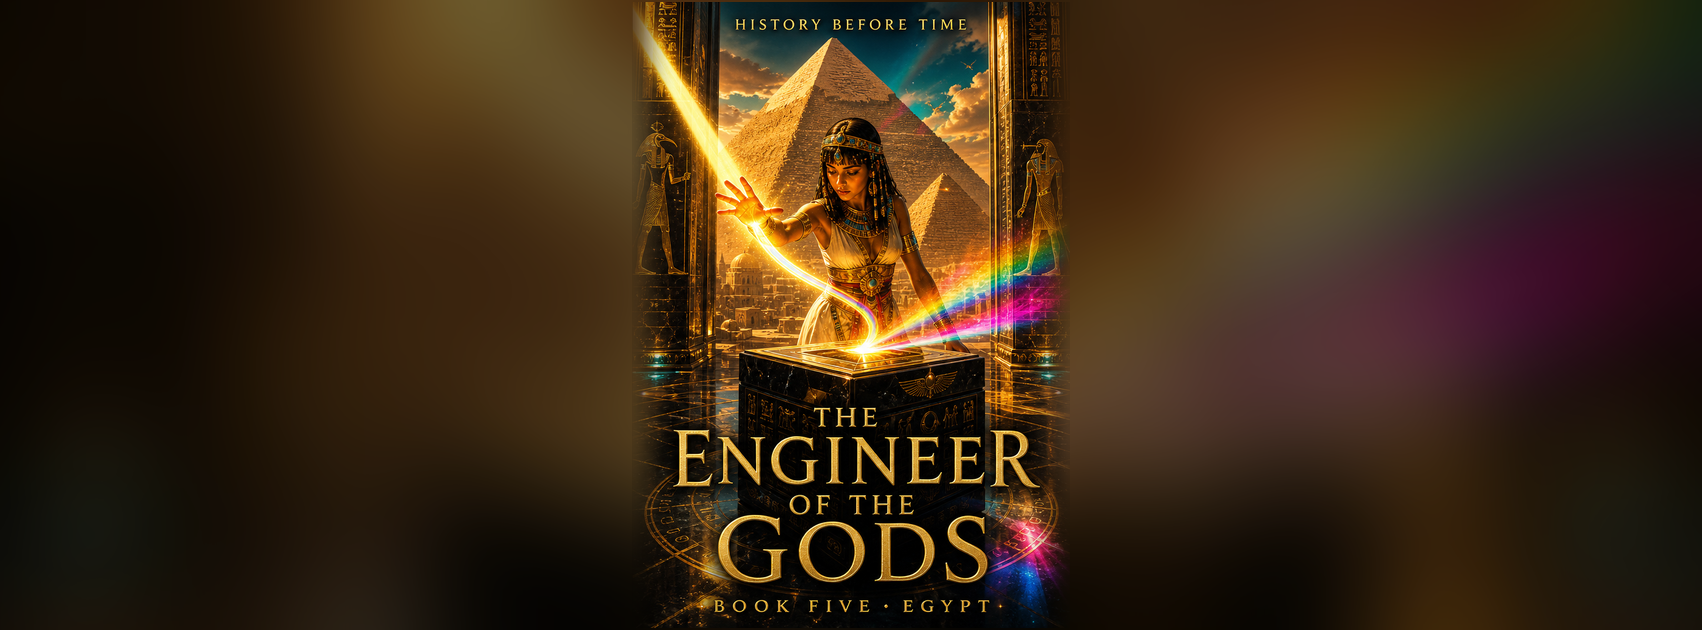
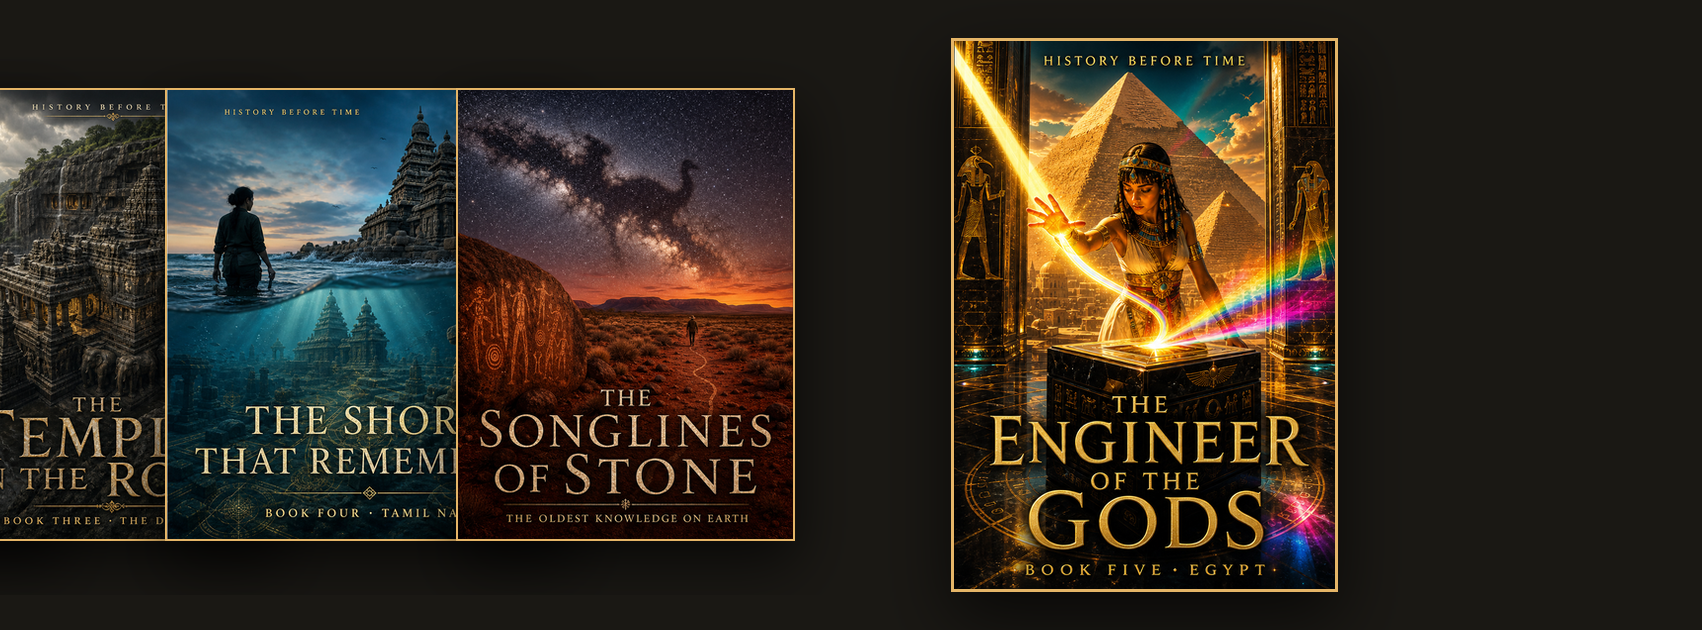
brand: Facebook cover — HBT collage with Engineer of the Gods as hero
The 7 full History Before Time novels as a collage: the five supporting covers
(Calendar of Stone, Temple in the Rock ×2, Shore That Remembers, Songlines of
Stone) fanned on the left; Engineer of the Gods rendered larger and centre-right
as the hero. Warm near-black ground, gold keylines. 851x315 + 2x master.

diff --git a/brand/facebook/build_cover.py b/brand/facebook/build_cover.py
@@ -1,17 +1,15 @@
 #!/usr/bin/env python3
-"""Facebook cover: the Engineer of the Gods cover, full-frame and epic. Just the cover.
+"""Facebook cover: collage of the 7 History Before Time covers with Engineer of the Gods full-frame.
 
-A Facebook cover is a wide landscape (851x315) and the book cover is a tall portrait, so we can't
-simply crop a thin slice without losing the art. Instead we fill the banner with the cover's OWN
-image: the cover is scaled to the full banner height and centred, and its background is extended to
-the wide sides by a mirrored, blurred, darkened bleed — so the whole thing reads as one cinematic
-full-frame image with the real cover intact and dominant in the mobile-safe centre.
+The seven full HBT novels (Calendar of Stone, Temple in the Rock ×2, Shore That Remembers,
+Engineer of the Gods, Songlines of Stone) fanned across the right side of the banner, with
+Engineer of the Gods rendered at a larger scale as the hero. Warm near-black house ground.
 
 Writes the exact 851x315 cover plus a 2x master.
 """
 from pathlib import Path
 
-from PIL import Image, ImageEnhance, ImageFilter
+from PIL import Image, ImageDraw, ImageFilter
 
 HERE = Path(__file__).resolve().parent
 BRAND = HERE.parent
@@ -19,58 +17,84 @@ BOOKS = BRAND.parent / "books" / "history-before-time" / "books"
 
 W, H = 851, 315
 SCALE = 2
+BG = (22, 21, 19)
 
-# The hero cover — Engineer of the Gods (the most striking cover).
-COVER = BOOKS / "book5-egypt" / "design" / "cover.png"
+# The six non-hero covers: Calendar of Stone, Temple in the Rock (India ×2), Shore That Remembers,
+# Songlines of Stone. Ordered left to right in the fan (smallest to largest).
+COVERS = [
+    "book1-africa",           # Calendar of Stone
+    "book2-india",            # Temple in the Rock
+    "book3-india-deccan",     # Temple in the Rock (Deccan)
+    "book4-india-tamil",      # Shore That Remembers
+    "australia-outback",      # Songlines of Stone
+]
+
+# The hero: Engineer of the Gods (book5-egypt), rendered larger/fuller
+HERO = BOOKS / "book5-egypt" / "design" / "cover.png"
 
 out = HERE / "facebook-cover.png"
 out_2x = HERE / "facebook-cover@2x.png"
 
 
+def _cover_shadowed(path: Path, target_h: int) -> Image.Image:
+    """Load a cover, scale to target height, add a soft drop shadow + thin gold edge."""
+    img = Image.open(path).convert("RGB")
+    cw, ch = img.size
+    scale = target_h / ch
+    img = img.resize((int(cw * scale), target_h), Image.LANCZOS)
+    cw, ch = img.size
+    # Thin gold keyline.
+    GOLD = (229, 181, 103)
+    edge = Image.new("RGB", (cw, ch), GOLD)
+    border = max(2, int(target_h * 0.006))
+    inner = img.crop((0, 0, cw, ch)).resize((cw - 2 * border, ch - 2 * border), Image.LANCZOS)
+    edge.paste(inner, (border, border))
+    img = edge
+    # Compose onto a transparent tile with a drop shadow.
+    pad = int(target_h * 0.12)
+    tile = Image.new("RGBA", (cw + pad * 2, ch + pad * 2), (0, 0, 0, 0))
+    shadow = Image.new("RGBA", tile.size, (0, 0, 0, 0))
+    sd = ImageDraw.Draw(shadow)
+    sd.rectangle([pad, pad + int(pad * 0.4), pad + cw, pad + ch + int(pad * 0.4)],
+                 fill=(0, 0, 0, 170))
+    shadow = shadow.filter(ImageFilter.GaussianBlur(pad * 0.5))
+    tile.alpha_composite(shadow)
+    tile.alpha_composite(Image.merge("RGBA", (*img.split(), Image.new("L", img.size, 255))), (pad, pad))
+    return tile
+
+
 def main():
     sw, sh = W * SCALE, H * SCALE
-    cover = Image.open(COVER).convert("RGB")
+    canvas = Image.new("RGB", (sw, sh), BG)
 
-    # 1) Background bleed: scale the cover to COVER the whole wide banner (crop overflow), then blur
-    #    + darken it so it fills the sides without competing with the sharp cover on top.
-    cw, ch = cover.size
-    cover_ar = cw / ch
-    banner_ar = sw / sh
-    if cover_ar < banner_ar:                 # cover narrower than banner → match width, crop height
-        bw = sw
-        bh = int(sw / cover_ar)
-    else:
-        bh = sh
-        bw = int(sh * cover_ar)
-    bg = cover.resize((bw, bh), Image.LANCZOS)
-    bg = bg.crop(((bw - sw) // 2, (bh - sh) // 2, (bw - sw) // 2 + sw, (bh - sh) // 2 + sh))
-    bg = bg.filter(ImageFilter.GaussianBlur(sw * 0.03))
-    bg = ImageEnhance.Brightness(bg).enhance(0.45)
-    bg = ImageEnhance.Color(bg).enhance(0.9)
+    # Subtle vignette (warm center, darker edges).
+    vig = Image.new("L", (sw, sh), 0)
+    vd = ImageDraw.Draw(vig)
+    vd.ellipse([-sw * 0.2, -sh * 0.6, sw * 1.2, sh * 1.6], fill=60)
+    vig = vig.filter(ImageFilter.GaussianBlur(sw * 0.12))
+    warm = Image.new("RGB", (sw, sh), (38, 33, 24))
+    canvas = Image.composite(warm, canvas, vig)
 
-    # 2) The sharp full cover, scaled to the banner height, centred. (Slight inset so a sliver of
-    #    the cinematic bleed frames it top & bottom — feels intentional, not letterboxed.)
-    target_h = int(sh * 0.995)
-    scale = target_h / ch
-    fg = cover.resize((int(cw * scale), target_h), Image.LANCZOS)
-    fw, fh = fg.size
+    # ── The hero: Engineer of the Gods, large + centered-right ──
+    hero_h = int(sh * 0.88)
+    hero = _cover_shadowed(HERO, hero_h)
+    hero_x = int(sw * 0.52)                  # right of center
+    hero_y = (sh - hero.height) // 2
+    canvas.paste(hero, (hero_x, hero_y), hero)
 
-    canvas = bg.copy()
-    pos = ((sw - fw) // 2, (sh - fh) // 2)
-    canvas.paste(fg, pos)
-
-    # 3) Feather the vertical seams where the sharp cover meets the bleed, so there's no hard line.
-    seam = Image.new("L", (sw, sh), 0)
-    left = pos[0]
-    right = pos[0] + fw
-    feather = int(fw * 0.04)
-    from PIL import ImageDraw
-    sd = ImageDraw.Draw(seam)
-    sd.rectangle([left + feather, 0, right - feather, sh], fill=255)
-    seam = seam.filter(ImageFilter.GaussianBlur(feather * 0.7))
-    sharp_full = bg.copy()
-    sharp_full.paste(fg, pos)
-    canvas = Image.composite(sharp_full, bg, seam)
+    # ── The supporting 5 covers: smaller, fanned left of the hero ──
+    cover_h = int(sh * 0.72)
+    overlap = int(cover_h * 0.50)
+    tiles = [_cover_shadowed(BOOKS / c / "design" / "cover.png", cover_h) for c in COVERS]
+    step = [t.width - overlap for t in tiles]
+    total_w = sum(step[:-1]) + tiles[-1].width
+    # Position the fan so it ends just before the hero starts.
+    fan_right = hero_x - int(tiles[0].width * 0.08)
+    x = fan_right - total_w
+    y = (sh - tiles[0].height) // 2
+    for i, t in enumerate(tiles):
+        canvas.paste(t, (x, y), t)
+        x += step[i] if i < len(tiles) - 1 else 0
 
     canvas.save(out_2x)
     canvas.resize((W, H), Image.LANCZOS).save(out, optimize=True)
